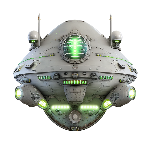
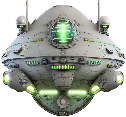
Fixing hitboxes and sprites (ray, ship, MS)

diff --git a/core/src/com/siriusilluminati/spacethemedtouhou/SpaceShooter.java b/core/src/com/siriusilluminati/spacethemedtouhou/SpaceShooter.java
@@ -71,15 +71,15 @@ public class SpaceShooter extends ApplicationAdapter {
 		ship = new Rectangle();
 		ship.x = 240;
 		ship.y = 50;
-		ship.height = 79;
-		ship.width = 82;
+		ship.height = 72;
+		ship.width = 54;
 		rockets = new Array<>();
 		rayProjectiles = new Array<>();
 		mothershipEntity = new Rectangle();
 		mothershipEntity.x = -200;
 		mothershipEntity.y = 300;
-		mothershipEntity.height = 150;
-		mothershipEntity.width = 150;
+		mothershipEntity.height = 117;
+		mothershipEntity.width = 126;
 		directionMS = "left";
 		shotDelay = 0;
 		score = 0;
@@ -88,18 +88,18 @@ public class SpaceShooter extends ApplicationAdapter {
 
 	public void spawnRocket() {
 		Rectangle rocket = new Rectangle();
-		rocket.x = ship.x + 32;
-		rocket.y = ship.y + 20;
+		rocket.x = ship.x + 18;
+		rocket.y = ship.y + 13;
 		rocket.width = 18;
 		rocket.height = 45;
 		rockets.add(rocket);
 	}
 	public void spawnRay(){
 		Rectangle ray = new Rectangle();
-		ray.x = mothershipEntity.x + 50;
+		ray.x = mothershipEntity.x + 47;
 		ray.y = mothershipEntity.y + 50;
 		ray.height = 50;
-		ray.width = 50;
+		ray.width = 32;
 		rayProjectiles.add(ray);
 	}
 
@@ -189,15 +189,21 @@ public class SpaceShooter extends ApplicationAdapter {
 			}
 			if(ray.y < -100) iter.remove();
 		}
+
+
 		if (mothershipEntity.x >= 0) {
+			// movement
             if (Objects.equals(directionMS, "right") & (mothershipEntity. x <= 640 - mothershipEntity.width))
                 mothershipEntity.x += msSpeed * Gdx.graphics.getDeltaTime();
             if (Objects.equals(directionMS, "left") & mothershipEntity.x >= 1)
                 mothershipEntity.x -= msSpeed * Gdx.graphics.getDeltaTime();
-            if (ship.x < 166)
+			// movement ai
+            if (ship.x <= 166 & Objects.equals(directionMS, "right"))
                 directionMS = "left";
-			else if (ship.x > 445)
+			else if (ship.x >= 445 & Objects.equals(directionMS, "left"))
 				directionMS = "right";
+			if (mothershipEntity. x == 640 - mothershipEntity.width)
+				directionMS = "left";
 			if (Gdx.input.isKeyPressed(Input.Keys.M)) {
 				msSpeed = 0;
 				spawnRay();
@@ -215,7 +221,13 @@ public class SpaceShooter extends ApplicationAdapter {
 			scrollDist = 1920;
 		if (scrollDist2 == -1920)
 			scrollDist2 = 1920;
-
+		if (Gdx.input.isKeyPressed(Input.Keys.F8)){
+			System.out.println("Player X: " + ship.x);
+			System.out.println("Player Y: " + ship.y);
+			System.out.println("MS X: " + mothershipEntity.x);
+			System.out.println("MS Y: " + mothershipEntity.y);
+			System.out.println("MS direction: " + directionMS);
+		}
 		scrollDist -= scrollSpeed;
 		scrollDist2 -= scrollSpeed;
 	}
